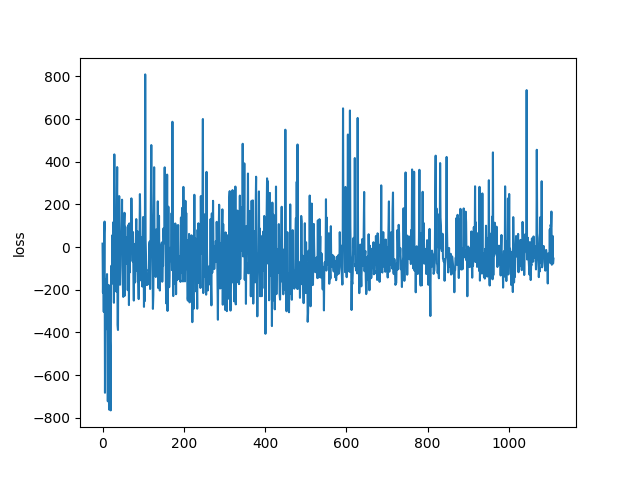
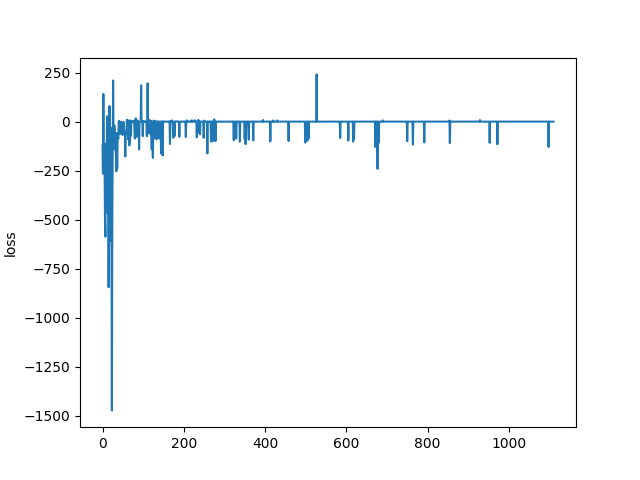
gpu support

diff --git a/vpg.py b/vpg.py
@@ -1,3 +1,4 @@
+from timeit import timeit
 from turtle import circle
 import gym
 import matplotlib
@@ -14,9 +15,11 @@ import agent_network
 from environment import Environment
 from graph_world import World
 import utils
+import time
 
-class PolicyEstimator():
+class PolicyEstimator(nn.Module):
     def __init__(self, env):
+        super(PolicyEstimator, self).__init__()
         self.num_observations = env.observation_space['target'].shape[0] + env.observation_space['curr_loc'].shape[0]
         # print(f"num_observation={self.num_observations}")
         self.num_actions = env.action_space.n
@@ -27,12 +30,17 @@ class PolicyEstimator():
             nn.Linear(16, self.num_actions),
             nn.Softmax(dim=-1)
         )
-
-    def predict(self, observation):
+    def forward(self, observation):
         return self.network(observation)
+    def predict(self, observation):
+        return self.forward(observation)
 
-def vanilla_policy_gradient(env, estimator, num_episodes=1, batch_size=10, discount_factor=0.01, render=False,
-                            early_exit_reward_amount=None):
+def vanilla_policy_gradient(env, estimator, num_episodes=1, batch_size=10, discount_factor=0.01, render=False,early_exit_reward_amount=None, device=None):
+
+    if device!=None:
+        print(device)
+        estimator.to(device)
+    estimator.cuda()
     total_rewards, batch_rewards, batch_observations, batch_actions = [], [], [], []
     batch_counter = 1
     epsilon = 0.9
@@ -51,9 +59,12 @@ def vanilla_policy_gradient(env, estimator, num_episodes=1, batch_size=10, disco
             print(f"observation = {observation}")
             # use policy to make predictions and run an action
             t = torch.cat((observation['cur_loc'], observation['target']))
-
-            print(f"action_probs: {estimator.predict(t)}")
-            action_probs = estimator.predict(t).detach().numpy()
+            if device!=None:
+                print(device)
+                t.to(device)
+            
+            print(f"action_probs: {estimator.predict(t.cuda())}")
+            action_probs = estimator.predict(t.cuda()).cpu().detach().numpy()
             
             # epsilon greedy technique 
             if np.random.rand() < epsilon and ct<2000:
@@ -96,13 +107,15 @@ def vanilla_policy_gradient(env, estimator, num_episodes=1, batch_size=10, disco
                     batch_actions = torch.LongTensor(batch_actions)
 
                     # calculate loss
-                    logprob = torch.log(estimator.predict(batch_observations))
+                    if device!=None:
+                        batch_observations.to(device)
+                    logprob = torch.log(estimator.predict(batch_observations.cuda()))
                     # print(f"logprob = {logprob}")
                     # print(f"batch_reward = {batch_rewards}")
                     for param in estimator.network.parameters():
                         print(param.data)
-                    batch_actions = batch_actions.reshape(len(batch_actions), 1)
-                    selected_logprobs = batch_rewards * torch.gather(logprob, 1, batch_actions).squeeze()
+                    batch_actions = batch_actions.reshape(len(batch_actions), 1).cuda()
+                    selected_logprobs = batch_rewards.cuda() * torch.gather(logprob, 1, batch_actions).squeeze()
                     # print(f"selected_logprob = {selected_logprobs}")
                     loss = -selected_logprobs.mean()
                     print(loss.item()*1000)
@@ -128,9 +141,13 @@ def vanilla_policy_gradient(env, estimator, num_episodes=1, batch_size=10, disco
 
     return total_rewards,losses
 
+
 if __name__ == '__main__':
+    st = time.time()
+    device = torch.device('cuda:0' if torch.cuda.is_available() else 'cpu')
+
     # create environment
-    X_,Y_, vocabNet, conceptNet = agent_network.initialise(epochs = 10000)
+    X_,Y_, vocabNet, conceptNet = agent_network.initialise(epochs = 10000, device=device)
     env = Environment(vocabNet=vocabNet,conceptNet=conceptNet,X_=X_, Y_=Y_)
 
     # creating graph for all the vertices as agent location 
@@ -140,7 +157,7 @@ if __name__ == '__main__':
 
     # actually run the algorithm
     policy = PolicyEstimator(env)
-    rewards,losses = vanilla_policy_gradient(env, policy, num_episodes=10000)
+    rewards,losses = vanilla_policy_gradient(env, policy, num_episodes=10000, device=device)
 
     # moving average
     moving_average_num = 100
@@ -149,6 +166,7 @@ if __name__ == '__main__':
         return (cumsum[n:] - cumsum[:-n]) / float(n)
 
     # plotting
+
     '''
     plt.scatter(np.arange(len(rewards)), rewards, label='individual episodes')
     plt.plot(moving_average(rewards), label=f'moving average of last {moving_average_num} episodes')
@@ -157,7 +175,9 @@ if __name__ == '__main__':
     plt.ylabel('Reward')
     plt.legend()
     plt.show()
+
     '''
+    
     
     # print(losses)
     plt.plot(losses)
@@ -174,7 +194,7 @@ if __name__ == '__main__':
                 agent_loc = l1
                 target_loc = l2
                 t = torch.cat((agent_loc, target_loc))
-                action_probs = policy.predict(t)
+                action_probs = policy.predict(t.cuda())
                 print(f"agent_loc: {agent_loc} target_loc: {target_loc}")
                 octant,segment = World.quadrant_circle_pair(target_loc,agent_loc)
                 print(f"octant={octant}, segment={segment}")
@@ -185,3 +205,9 @@ if __name__ == '__main__':
                 #print(action)
 
     # graphplot.plot_graph(env.locations)
+
+    et = time.time()
+    res = et - st
+    final_res = res / 60
+    print('Execution time:', final_res, 'minutes')
+

diff --git a/agent_network.py b/agent_network.py
@@ -12,6 +12,8 @@ import numpy as np
 from scipy.stats import truncnorm
 import os
 
+from zmq import device
+
 
 from communication import Communication
 import constants
@@ -56,7 +58,12 @@ def print_loss(losses, learning_rate = 0.01):
     plt.title("Learning rate %f"%(learning_rate))
     plt.show()
 
-def train_agent(net, X,Y, learning_rate = 0.01, loss_fn = nn.MSELoss(), epochs = 1000):
+def train_agent(net, X,Y, learning_rate = 0.01, loss_fn = nn.MSELoss(), epochs = 1000, device =None):
+
+    if device!=None:
+        net.to(device)
+        X.to(device)
+        Y.to(device)
     optimiser = torch.optim.Adam(net.parameters(), lr=learning_rate)
     losses = []
     input_count=[]
@@ -87,7 +94,11 @@ def one_hot_encoded(data):
     temp = np.eye(dim)
     return temp
 
-def train2(net, X,Y,learning_rate = 0.01, loss_fn = nn.MSELoss()):
+def train2(net, X,Y,learning_rate = 0.01, loss_fn = nn.MSELoss(), device = None):
+    if device!=None:
+        net.to(device)
+        X.to(device)
+        Y.to(device)
     optimiser = torch.optim.Adam(net.parameters(), lr=learning_rate)
     for i in range(1):
         pred_y = net(X)
@@ -99,7 +110,7 @@ def train2(net, X,Y,learning_rate = 0.01, loss_fn = nn.MSELoss()):
 
 
 # if __name__ == '__main__':
-def initialise(epochs = 10000):
+def initialise(epochs = 10000, device=None):
     # Getting the mappings
     vocab_map = Communication.generate_vocabulary(constants.n_octants,constants.n_segments)
     # vocab_map = np.array(vocab_map)
@@ -119,7 +130,8 @@ def initialise(epochs = 10000):
     vocabNet = MapNet(concept_size,vocab_size)
     
     # print(vocabNet)
-
+    
+        
     train_agent(vocabNet,X,Y, epochs=epochs)
     # print(X[2])
     # print(vocabNet(X[2]))
@@ -144,6 +156,7 @@ def initialise(epochs = 10000):
     # Vocab to concepts 
     # this will be used by listener agent
     conceptNet = MapNet(vocab_size, concept_size)
+    
     train_agent(conceptNet, X,Y, epochs=epochs)
 
     return X_, Y_, conceptNet, vocabNet
@@ -202,3 +215,8 @@ if __name__ == '__main__':
 
     
 '''
+
+
+if __name__ == "__main__":
+    device = torch.device('cuda:0' if torch.cuda.is_available() else 'cpu')
+    initialise(device=device)

diff --git a/communication.py b/communication.py
@@ -72,4 +72,5 @@ class Communication:
 if __name__=='__main__':
     vocab_map = Communication.generate_vocabulary(3,3)
     print(vocab_map)
+
 '''
